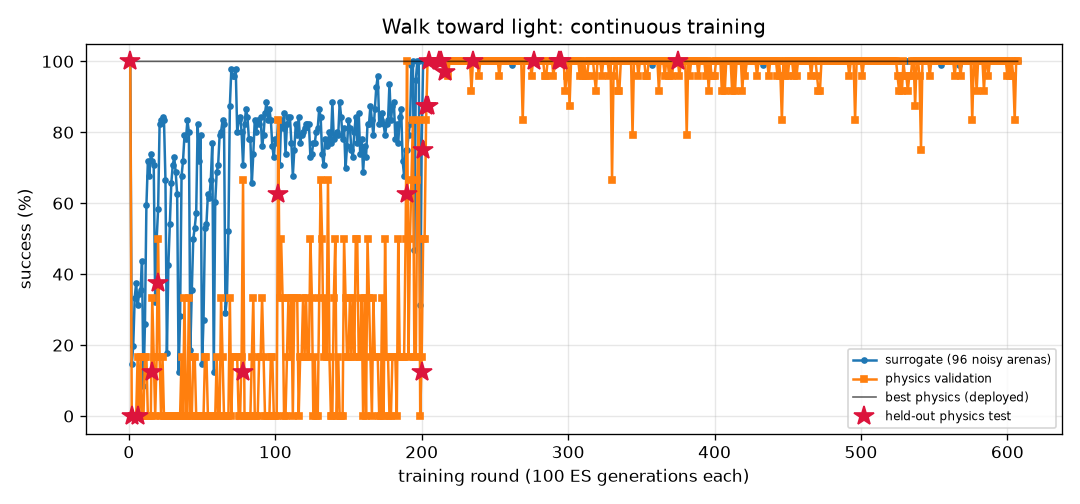
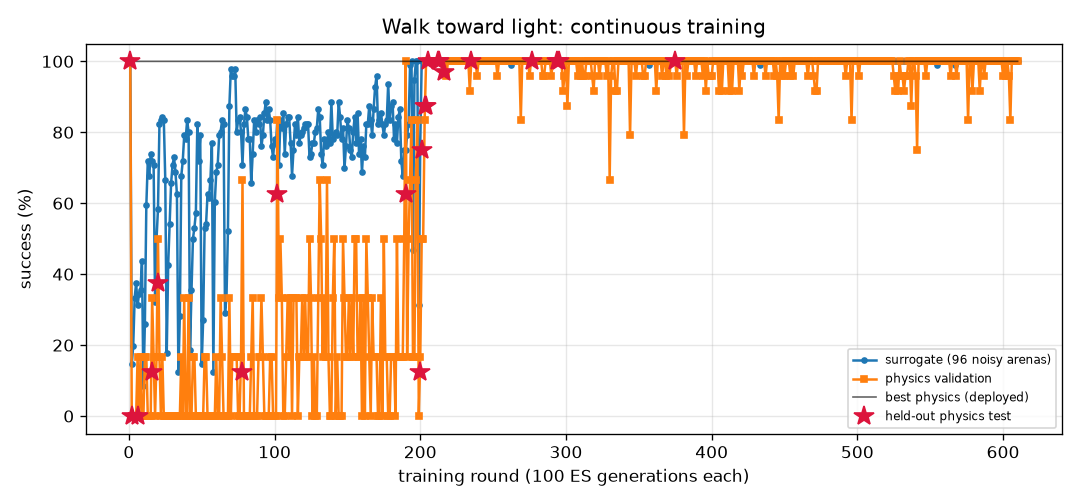
FlyLab: continuous training progress
- walk_forward: optimal, physics val 100% of 24, round 525
- turn: optimal, physics val 100% of 24, round 1333
- goto: optimal, physics val 100% of 24, round 404
- odor_seek: optimal, physics val 100% of 24, round 329
- odor_avoid: optimal, physics val 100% of 24, round 1126
- light_seek: optimal, physics val 100% of 24, round 610
- light_avoid: optimal, physics val 100% of 24, round 843

diff --git a/projects/09_flylab/training/light_avoid/REPORT.md b/projects/09_flylab/training/light_avoid/REPORT.md
@@ -1,14 +1,14 @@
 # Hide from light (`light_avoid`) — training report
 
-*Auto-generated by `train_brains.py`, last updated 2026-11-24T11:42:07.*
+*Auto-generated by `train_brains.py`, last updated 2026-11-24T16:04:03.*
 
 ![curve](curve.png)
 
 | | |
 |---|---|
-| rounds | 836 |
-| ES generations | 83600 |
-| physics runs | 20336 |
+| rounds | 843 |
+| ES generations | 84300 |
+| physics runs | 20504 |
 | status | **optimal** |
 | best brain | round 159: physics validation **100%** on 24 arenas, surrogate 100% |
 | held-out physics test | **100%** on 32 unseen arenas (95% CI 89%-100%) (errors: [14.4, 56.1, 58.0, 57.9, 57.5, 14.0, 14.4, 56.6, 56.8, 13.3, 14.1, 56.6, 57.6, 13.1, 57.3, 55.9, 57.2, 55.0, 55.2, 53.9, 55.2, 12.4, 53.8, 53.7, 14.1, 13.7, 55.0, 57.8, 56.2, 13.1, 52.8, 56.5]) |
@@ -17,13 +17,6 @@ Physics error per arena: mm gained away from source (> 6 without first approachi
 
 | round | level | gens | sigma | surrogate | physics val | val errors | test | note |
 |---:|---:|---:|---:|---:|---:|---|---:|---|
-| 797 | 3 | 79700 | 0.024 | 97% | 100% | [37.6, 38.2, 37.9, 37.9, 39.9, 39.8, 36.1, 14.5, 39.5, 13.4, 40.1, 40.3, 14.3, 40.2, 37.8, 35.6, 14.2, 39.9, 38.9, 14.4, 8.4, 40.5, 35.8, 40.0] |  |  |
-| 798 | 3 | 79800 | 0.026 | 93% | 96% | [6.2, 47.2, 47.1, 7.3, 45.5, 4.0, 46.2, 14.5, 43.2, 13.3, 41.8, 45.1, 14.4, 44.5, 47.2, 9.0, 14.2, 45.9, 47.6, 14.4, 8.7, 43.9, 45.5, 44.6] |  |  |
-| 799 | 3 | 79900 | 0.028 | 94% | 96% | [6.1, 41.0, 41.1, 7.3, 36.9, 4.6, 41.8, 14.5, 33.0, 13.5, 34.6, 35.9, 14.4, 36.2, 41.4, 9.0, 14.2, 37.7, 41.6, 14.4, 8.7, 36.0, 41.7, 35.4] |  | restart from best |
-| 800 | 3 | 80000 | 0.024 | 100% | 100% | [53.3, 57.2, 56.8, 55.4, 56.9, 53.3, 55.6, 14.5, 40.0, 13.5, 55.2, 56.7, 14.3, 56.4, 57.1, 52.9, 14.2, 57.3, 57.5, 14.4, 55.4, 55.3, 55.6, 56.1] |  |  |
-| 801 | 3 | 80100 | 0.024 | 100% | 100% | [53.7, 58.7, 58.3, 54.7, 58.7, 54.9, 56.9, 14.5, 50.7, 13.5, 57.9, 58.5, 14.4, 57.3, 58.5, 56.6, 14.2, 59.1, 58.9, 14.4, 55.4, 57.8, 56.8, 58.1] |  |  |
-| 802 | 3 | 80200 | 0.024 | 99% | 100% | [44.3, 44.9, 45.0, 44.0, 40.3, 44.5, 45.7, 14.5, 12.9, 13.4, 9.6, 39.4, 14.4, 40.7, 45.4, 43.6, 14.2, 40.9, 45.4, 14.4, 37.8, 9.5, 44.4, 39.0] |  |  |
-| 803 | 3 | 80300 | 0.025 | 98% | 100% | [33.8, 36.8, 37.1, 34.0, 32.6, 37.7, 38.1, 14.5, 13.0, 13.4, 10.2, 31.6, 14.4, 28.2, 36.1, 34.5, 14.2, 31.8, 35.4, 14.4, 31.6, 11.2, 36.9, 30.8] |  | restart from best |
 | 804 | 3 | 80400 | 0.024 | 100% | 100% | [53.4, 56.8, 56.5, 54.9, 56.5, 55.0, 55.2, 14.5, 9.8, 13.5, 55.0, 56.3, 14.4, 56.0, 56.7, 55.1, 14.2, 56.9, 57.2, 14.4, 53.4, 55.0, 55.1, 55.8] |  |  |
 | 805 | 3 | 80500 | 0.024 | 98% | 100% | [40.0, 39.7, 40.1, 39.7, 34.7, 39.5, 40.6, 14.5, 13.0, 13.4, 10.2, 34.5, 14.4, 23.9, 40.2, 39.5, 14.2, 35.8, 39.3, 14.4, 38.7, 11.2, 39.6, 33.0] |  |  |
 | 806 | 3 | 80600 | 0.025 | 98% | 96% | [45.1, 46.8, 46.7, 45.5, 44.5, 45.6, 46.1, 14.5, 13.0, 13.4, 10.2, 44.2, 14.4, 8.0, 46.9, 45.1, 14.2, 45.1, 47.3, 14.4, 44.9, 11.3, 45.5, 43.6] |  |  |
@@ -57,3 +50,10 @@ Physics error per arena: mm gained away from source (> 6 without first approachi
 | 834 | 3 | 83400 | 0.024 | 100% | 100% | [55.7, 60.7, 60.4, 57.1, 60.5, 57.5, 59.1, 14.5, 56.5, 13.4, 58.9, 60.4, 14.4, 59.5, 60.6, 56.1, 14.2, 61.0, 61.0, 14.4, 54.2, 59.9, 59.0, 59.8] |  |  |
 | 835 | 3 | 83500 | 0.024 | 100% | 100% | [52.3, 57.5, 57.2, 53.2, 58.1, 53.7, 55.4, 14.5, 50.7, 13.6, 55.8, 58.0, 14.4, 56.8, 57.3, 53.4, 14.2, 58.4, 57.6, 14.4, 54.6, 56.2, 54.9, 57.5] |  | restart from best |
 | 836 | 3 | 83600 | 0.024 | 100% | 100% | [37.7, 37.3, 37.5, 40.2, 40.7, 38.6, 35.4, 14.5, 38.6, 13.5, 40.6, 40.8, 14.3, 40.3, 37.0, 39.3, 14.2, 40.4, 37.7, 14.4, 40.2, 41.4, 35.5, 40.9] |  |  |
+| 837 | 3 | 83700 | 0.024 | 100% | 100% | [42.8, 43.9, 42.5, 44.1, 46.8, 44.0, 41.7, 14.5, 44.5, 13.3, 46.7, 47.0, 14.4, 46.7, 43.8, 44.8, 14.2, 46.9, 43.7, 14.4, 43.4, 47.3, 41.9, 47.0] |  |  |
+| 838 | 3 | 83800 | 0.024 | 100% | 100% | [43.7, 42.4, 42.1, 44.9, 45.0, 43.0, 40.0, 14.5, 43.1, 13.3, 47.9, 44.9, 14.4, 46.3, 44.2, 43.8, 14.2, 46.9, 42.7, 14.4, 42.8, 47.5, 40.6, 45.9] |  |  |
+| 839 | 3 | 83900 | 0.024 | 100% | 100% | [45.1, 46.0, 45.6, 46.6, 49.1, 46.6, 43.5, 14.5, 49.2, 13.5, 50.6, 49.3, 14.4, 49.5, 45.8, 47.3, 14.2, 49.4, 46.7, 14.4, 47.0, 50.4, 43.9, 49.5] |  | restart from best |
+| 840 | 3 | 84000 | 0.024 | 100% | 100% | [53.0, 55.7, 55.7, 53.3, 53.3, 53.6, 55.1, 14.5, 48.8, 13.3, 53.6, 53.0, 14.4, 55.1, 55.8, 53.6, 14.2, 54.0, 56.0, 14.4, 52.3, 53.5, 54.8, 52.1] |  |  |
+| 841 | 3 | 84100 | 0.024 | 100% | 100% | [39.5, 38.2, 38.5, 38.5, 33.9, 37.9, 39.2, 14.5, 12.7, 13.4, 35.2, 33.9, 14.4, 37.2, 38.4, 39.7, 14.2, 35.8, 37.5, 14.4, 38.5, 39.0, 39.9, 33.6] |  |  |
+| 842 | 3 | 84200 | 0.024 | 100% | 100% | [50.7, 54.1, 53.8, 51.2, 53.2, 51.3, 52.4, 14.5, 10.2, 13.3, 53.8, 53.1, 14.4, 53.6, 54.0, 50.3, 14.2, 53.8, 54.3, 14.4, 51.7, 53.6, 52.0, 52.4] |  |  |
+| 843 | 3 | 84300 | 0.024 | 100% | 100% | [56.6, 61.0, 60.8, 57.7, 61.0, 57.6, 59.4, 14.5, 55.7, 13.5, 60.1, 60.6, 14.4, 58.3, 61.1, 56.3, 14.2, 61.4, 61.7, 14.4, 56.2, 60.7, 59.3, 60.2] |  | restart from best |

diff --git a/projects/09_flylab/training/light_seek/REPORT.md b/projects/09_flylab/training/light_seek/REPORT.md
@@ -1,14 +1,14 @@
 # Walk toward light (`light_seek`) — training report
 
-*Auto-generated by `train_brains.py`, last updated 2026-11-24T12:39:46.*
+*Auto-generated by `train_brains.py`, last updated 2026-11-24T16:04:08.*
 
 ![curve](curve.png)
 
 | | |
 |---|---|
-| rounds | 607 |
-| ES generations | 60700 |
-| physics runs | 11448 |
+| rounds | 610 |
+| ES generations | 61000 |
+| physics runs | 11520 |
 | status | **optimal** |
 | best brain | round 375: physics validation **100%** on 24 arenas, surrogate 100% |
 | held-out physics test | **100%** on 32 unseen arenas (95% CI 89%-100%) (errors: [0.57, 0.54, 0.53, 0.57, 0.55, 0.56, 0.59, 0.56, 0.53, 0.56, 0.71, 0.56, 0.55, 0.54, 0.53, 0.54, 0.54, 0.55, 0.52, 0.65, 0.64, 0.7, 0.58, 0.57, 0.6, 0.62, 0.55, 0.88, 0.54, 0.52, 0.62, 0.57]) |
@@ -17,9 +17,6 @@ Physics error per arena: mm from target at the end (< 1.5 and standing still = s
 
 | round | level | gens | sigma | surrogate | physics val | val errors | test | note |
 |---:|---:|---:|---:|---:|---:|---|---:|---|
-| 568 | 3 | 56800 | 0.024 | 100% | 96% | [0.58, 0.63, 0.6, 0.59, 3.18, 0.69, 0.59, 0.61, 0.78, 0.58, 0.62, 0.58, 0.58, 0.59, 0.6, 0.6, 0.6, 0.62, 0.6, 0.6, 0.59, 0.68, 0.59, 1.18] |  |  |
-| 569 | 3 | 56900 | 0.024 | 100% | 100% | [0.7, 0.63, 0.64, 0.59, 0.71, 0.6, 0.76, 0.65, 0.58, 0.77, 0.63, 0.67, 0.61, 0.63, 0.59, 0.8, 0.63, 0.6, 0.62, 0.61, 0.66, 0.69, 0.6, 0.66] |  |  |
-| 570 | 3 | 57000 | 0.024 | 100% | 100% | [0.72, 0.65, 0.61, 0.58, 0.55, 0.6, 0.67, 0.55, 0.58, 0.68, 0.65, 0.64, 0.59, 0.63, 0.69, 0.67, 0.55, 0.73, 0.59, 0.54, 0.69, 0.6, 0.54, 0.57] |  |  |
 | 571 | 3 | 57100 | 0.024 | 100% | 100% | [0.6, 0.55, 0.63, 0.63, 0.53, 0.57, 0.59, 0.51, 0.6, 0.51, 0.93, 0.6, 0.56, 0.97, 0.55, 0.59, 0.62, 0.59, 0.58, 0.55, 0.65, 0.59, 0.58, 0.62] |  | restart from best |
 | 572 | 3 | 57200 | 0.024 | 100% | 100% | [0.58, 0.59, 0.59, 0.62, 0.58, 0.6, 0.59, 0.6, 0.59, 0.6, 0.58, 0.65, 0.59, 0.61, 0.67, 0.61, 0.6, 0.61, 0.6, 0.59, 0.61, 0.62, 0.6, 0.62] |  |  |
 | 573 | 3 | 57300 | 0.024 | 100% | 100% | [0.57, 0.63, 0.51, 0.49, 0.5, 0.53, 0.58, 0.61, 0.54, 0.53, 1.08, 0.52, 0.55, 1.01, 0.6, 0.51, 0.46, 1.06, 0.46, 0.59, 0.61, 0.57, 0.48, 0.52] |  |  |
@@ -57,3 +54,6 @@ Physics error per arena: mm from target at the end (< 1.5 and standing still = s
 | 605 | 3 | 60500 | 0.024 | 100% | 83% | [0.96, 0.6, 0.73, 0.6, 0.7, 0.62, 0.63, 0.61, 2.47, 0.78, 1.03, 0.73, 1.97, 0.61, 2.8, 1.57, 0.73, 0.58, 0.59, 0.6, 0.69, 1.0, 1.08, 0.63] |  |  |
 | 606 | 3 | 60600 | 0.024 | 100% | 100% | [0.59, 0.64, 0.56, 0.58, 0.58, 0.76, 1.02, 0.6, 0.88, 0.56, 0.62, 0.64, 0.82, 0.68, 0.57, 0.66, 0.76, 1.19, 0.58, 0.72, 0.57, 0.77, 0.52, 0.6] |  |  |
 | 607 | 3 | 60700 | 0.024 | 100% | 100% | [0.62, 0.61, 0.65, 0.64, 0.67, 0.53, 0.58, 0.59, 0.71, 0.61, 0.68, 0.6, 1.04, 0.62, 0.68, 0.63, 0.98, 0.52, 0.61, 0.55, 0.68, 0.6, 0.56, 0.51] |  | restart from best |
+| 608 | 3 | 60800 | 0.024 | 100% | 100% | [0.52, 0.51, 0.49, 0.51, 0.55, 0.47, 0.55, 0.49, 0.59, 0.57, 0.53, 0.49, 0.54, 0.52, 0.46, 0.59, 0.53, 0.52, 0.47, 0.52, 0.52, 0.51, 0.53, 0.67] |  |  |
+| 609 | 3 | 60900 | 0.024 | 100% | 100% | [0.54, 0.65, 0.56, 0.52, 0.54, 0.52, 0.65, 0.56, 0.73, 0.54, 0.67, 0.55, 0.67, 0.53, 0.53, 0.56, 0.51, 0.51, 0.53, 0.71, 0.62, 0.56, 0.62, 0.52] |  |  |
+| 610 | 3 | 61000 | 0.024 | 100% | 100% | [0.51, 0.51, 0.58, 0.55, 0.48, 0.5, 0.48, 0.48, 1.04, 0.51, 0.47, 0.47, 0.64, 1.08, 0.97, 0.58, 0.47, 0.53, 0.52, 0.57, 0.55, 0.58, 0.62, 0.48] |  |  |

diff --git a/projects/09_flylab/training/odor_avoid/REPORT.md b/projects/09_flylab/training/odor_avoid/REPORT.md
@@ -1,14 +1,14 @@
 # Escape a bad smell (`odor_avoid`) — training report
 
-*Auto-generated by `train_brains.py`, last updated 2026-11-24T14:50:23.*
+*Auto-generated by `train_brains.py`, last updated 2026-11-24T15:14:08.*
 
 ![curve](curve.png)
 
 | | |
 |---|---|
-| rounds | 1124 |
-| ES generations | 112400 |
-| physics runs | 24282 |
+| rounds | 1126 |
+| ES generations | 112600 |
+| physics runs | 24330 |
 | status | **optimal** |
 | best brain | round 373: physics validation **100%** on 24 arenas, surrogate 97% |
 | held-out physics test | **97%** on 32 unseen arenas (95% CI 84%-99%) (errors: [62.0, 57.4, 62.6, 61.9, 59.0, 61.6, 56.5, 60.7, 31.7, 60.9, 63.1, 57.1, 61.1, 62.1, 61.5, 60.2, 62.2, 55.2, 62.1, 54.2, 61.3, 62.0, 58.0, 61.9, 59.8, 56.5, 56.3, 56.4, 56.3, 57.7, 61.9, 32.4]) |
@@ -17,8 +17,6 @@ Physics error per arena: mm gained away from source (> 6 without first approachi
 
 | round | level | gens | sigma | surrogate | physics val | val errors | test | note |
 |---:|---:|---:|---:|---:|---:|---|---:|---|
-| 1085 | 3 | 108500 | 0.028 | 96% | 96% | [63.0, 61.0, 58.1, 61.1, 61.5, 62.3, 61.5, 60.0, 60.5, 62.2, 61.4, 60.0, 53.5, 58.3, 45.4, 62.4, 60.6, 62.2, 54.2, 57.8, 59.7, 62.4, 55.9, 62.7] |  | restart from best |
-| 1086 | 3 | 108600 | 0.026 | 93% | 100% | [62.7, 55.9, 56.4, 57.9, 61.9, 60.9, 60.4, 15.2, 60.6, 61.7, 62.4, 62.0, 55.2, 56.7, 45.9, 61.7, 61.5, 62.5, 55.4, 57.2, 61.6, 57.4, 58.1, 31.8] |  |  |
 | 1087 | 3 | 108700 | 0.028 | 97% | 100% | [63.0, 57.1, 56.7, 57.6, 62.6, 61.5, 61.9, 39.4, 60.3, 60.4, 62.4, 61.9, 54.1, 56.7, 52.2, 62.5, 62.5, 61.0, 55.3, 55.5, 62.4, 61.6, 57.6, 58.5] |  |  |
 | 1088 | 3 | 108800 | 0.026 | 97% | 96% | [63.2, 61.2, 56.7, 59.5, 61.3, 62.3, 61.5, 59.2, 60.4, 60.2, 61.0, 61.5, 49.8, 55.9, 44.9, 60.7, 62.3, 61.9, 55.1, 60.2, 62.4, 60.1, 59.1, 61.7] |  |  |
 | 1089 | 3 | 108900 | 0.026 | 97% | 96% | [60.5, 57.1, 56.1, 57.3, 60.5, 61.3, 60.4, 41.1, 60.0, 59.4, 60.4, 61.1, 52.6, 56.3, 37.1, 60.1, 61.1, 61.2, 53.4, 56.7, 61.0, 45.5, 57.9, 58.8] |  | restart from best |
@@ -57,3 +55,5 @@ Physics error per arena: mm gained away from source (> 6 without first approachi
 | 1122 | 3 | 112200 | 0.026 | 96% | 96% | [62.3, 59.7, 57.7, 60.8, 61.8, 62.2, 62.0, 59.5, 62.0, 61.2, 61.4, 61.7, 53.8, 58.4, 34.1, 61.9, 62.0, 61.6, 55.0, 59.6, 62.1, 61.8, 60.3, 55.3] |  |  |
 | 1123 | 3 | 112300 | 0.026 | 95% | 100% | [61.1, 59.3, 57.9, 59.3, 60.8, 61.3, 61.1, 38.1, 60.9, 39.0, 39.3, 59.6, 50.5, 56.9, 38.9, 60.3, 59.4, 60.0, 52.0, 58.4, 59.3, 24.6, 58.3, 19.4] |  |  |
 | 1124 | 3 | 112400 | 0.027 | 95% | 96% | [62.5, 56.7, 56.7, 56.4, 60.3, 61.8, 60.1, 61.9, 60.6, 59.3, 58.9, 60.3, 49.5, 53.2, 38.0, 61.8, 59.3, 61.0, 51.4, 58.3, 60.3, 62.4, 59.1, 62.0] |  |  |
+| 1125 | 3 | 112500 | 0.027 | 94% | 96% | [62.7, 60.7, 57.7, 61.0, 61.7, 60.3, 60.4, 62.1, 61.8, 58.2, 39.8, 59.8, 47.4, 54.7, 2.0, 61.8, 60.6, 59.5, 54.3, 57.2, 60.4, 62.5, 59.9, 62.8] |  | restart from best |
+| 1126 | 3 | 112600 | 0.026 | 96% | 100% | [63.3, 58.4, 56.7, 59.0, 60.6, 62.0, 62.2, 50.1, 60.3, 56.1, 61.6, 61.7, 52.9, 55.3, 42.0, 62.3, 61.9, 62.2, 52.1, 55.9, 61.6, 58.8, 58.1, 56.1] |  |  |

diff --git a/projects/09_flylab/training/TRAINING.md b/projects/09_flylab/training/TRAINING.md
@@ -1,6 +1,6 @@
 # FlyLab brains — continuous training log
 
-*Auto-generated by `train_brains.py`, last updated 2026-11-24T14:57:04.*
+*Auto-generated by `train_brains.py`, last updated 2026-11-24T16:04:08.*
 
 Every skill has its own brain and its own training process: surrogate ES rounds, physics validation in MuJoCo, keep-the-best selection, and a held-out physics test that is never used for selection. See each skill's report for its full round-by-round history. Mastery is progressive: passing a level (100% physics validation, >=95% surrogate) doubles the validation and test arena sets; a brain is **optimal** once it holds up at level 3 (>=95% of 24 validation arenas) AND scores >=90% on the 32 held-out test arenas. Test columns show 95% Wilson confidence intervals.
 
@@ -10,6 +10,6 @@ Every skill has its own brain and its own training process: surrogate ES rounds,
 | [Turn in place](turn/REPORT.md) | 1333 | 133300 | 32238 | 100% | 100% of 24 | 97% of 32 (CI 84-99%) | **optimal** |
 | [Go to a location](goto/REPORT.md) | 404 | 40400 | 9646 | 100% | 100% of 24 | 100% of 32 (CI 89-100%) | **optimal** |
 | [Find food by smell](odor_seek/REPORT.md) | 329 | 32900 | 7390 | 100% | 100% of 24 | 100% of 32 (CI 89-100%) | **optimal** |
-| [Escape a bad smell](odor_avoid/REPORT.md) | 1124 | 112400 | 24282 | 97% | 100% of 24 | 97% of 32 (CI 84-99%) | **optimal** |
-| [Walk toward light](light_seek/REPORT.md) | 607 | 60700 | 11448 | 100% | 100% of 24 | 100% of 32 (CI 89-100%) | **optimal** |
-| [Hide from light](light_avoid/REPORT.md) | 836 | 83600 | 20336 | 100% | 100% of 24 | 100% of 32 (CI 89-100%) | **optimal** |
+| [Escape a bad smell](odor_avoid/REPORT.md) | 1126 | 112600 | 24330 | 97% | 100% of 24 | 97% of 32 (CI 84-99%) | **optimal** |
+| [Walk toward light](light_seek/REPORT.md) | 610 | 61000 | 11520 | 100% | 100% of 24 | 100% of 32 (CI 89-100%) | **optimal** |
+| [Hide from light](light_avoid/REPORT.md) | 843 | 84300 | 20504 | 100% | 100% of 24 | 100% of 32 (CI 89-100%) | **optimal** |
